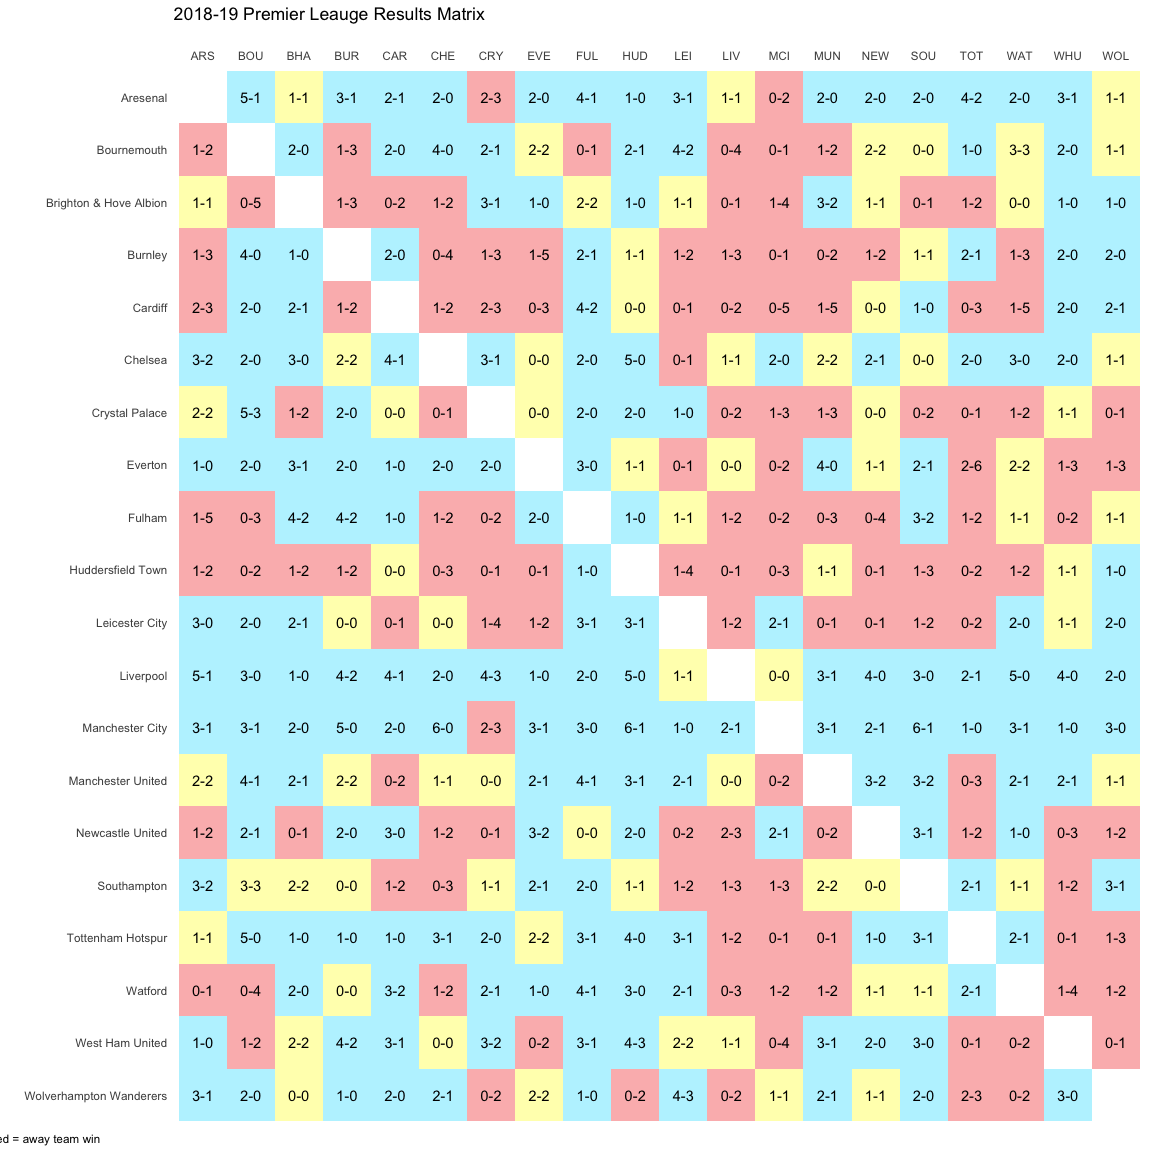
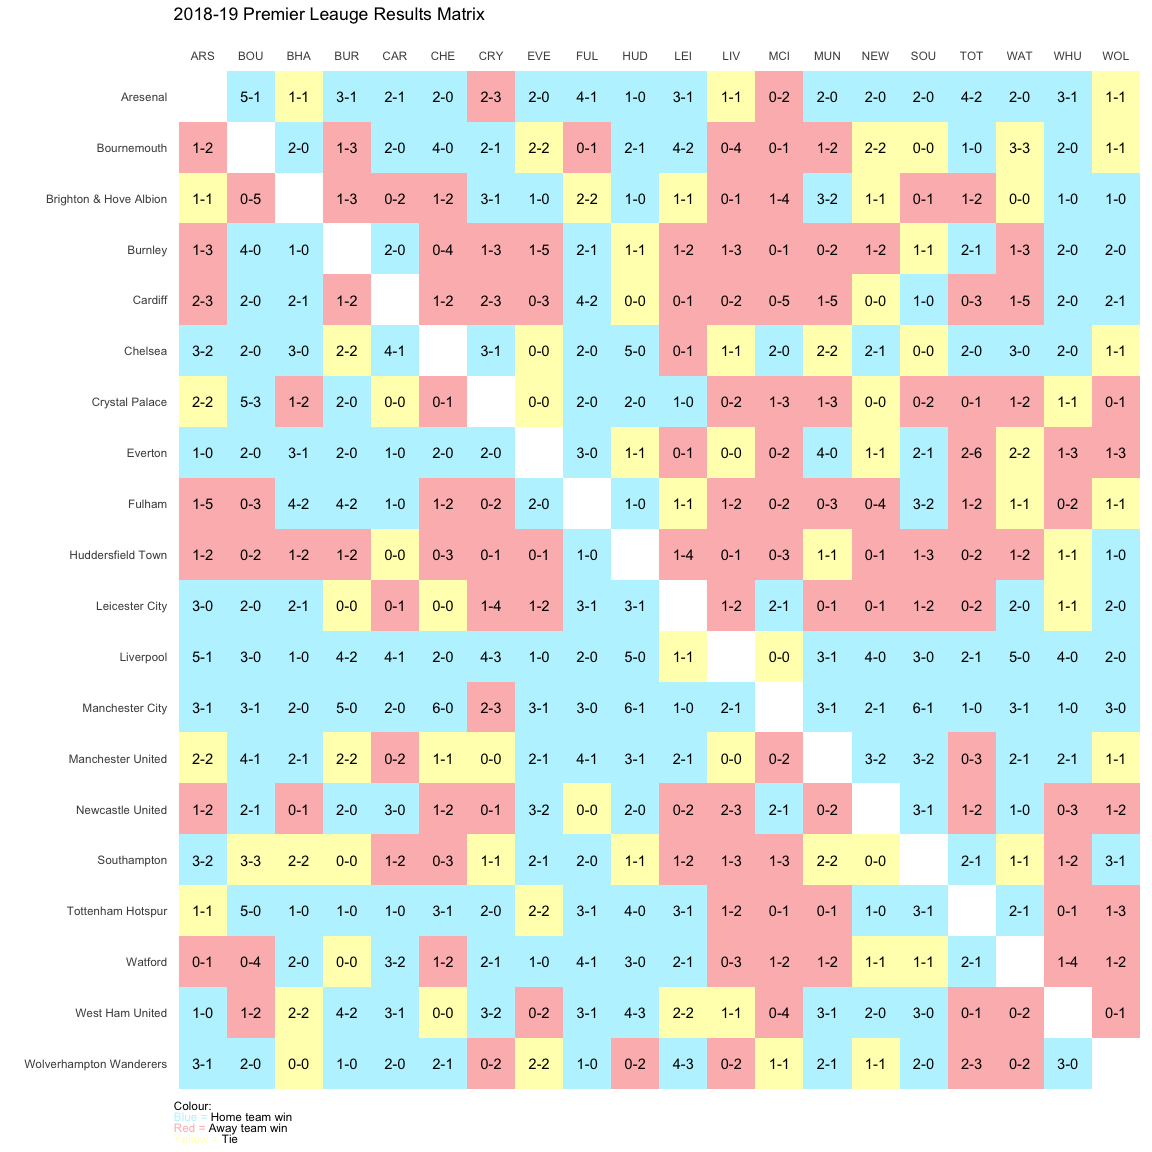
README edits.

diff --git a/Tidyverse/ggplot/Premier League Matrix/README.md b/Tidyverse/ggplot/Premier League Matrix/README.md
@@ -1,6 +1,7 @@
 ``` r
 library(tidyverse)
 library(janitor)
+library(ggtext)
 
 #load data
 epl18_19 <- read_csv("2018-2019.csv") %>% 
@@ -46,7 +47,11 @@ epl18_19 %>%
     x = "",
     y = "",
     title = "2018-19 Premier Leauge Results Matrix",
-    caption = 'Colour: Blue = home team win; Yellow = draw; Red = away team win') +
+    caption = "Colour: 
+    <br> <span style = 'color:#BBF3FF;'>Blue =</span> Home team win 
+    <br> <span style = 'color:#FCBBBB;'>Red  =</span> Away team win
+    <br> <span style = 'color:#FFFFBB;'>Yellow  =</span> Tie"
+      ) +
   scale_x_discrete(position = "top") +
   scale_y_discrete(labels = rev(c("Aresenal", "Bournemouth", "Brighton & Hove Albion", "Burnley", "Cardiff", "Chelsea",
                                   "Crystal Palace", "Everton", "Fulham", "Huddersfield Town", "Leicester City",
@@ -55,7 +60,7 @@ epl18_19 %>%
   theme(
     panel.background = element_blank(),
     axis.ticks = element_blank(),
-    plot.caption = element_text(hjust = -.7)) 
+    plot.caption = element_markdown(hjust = 0)) 
 ```
 
     ## Joining, by = "away_team"
